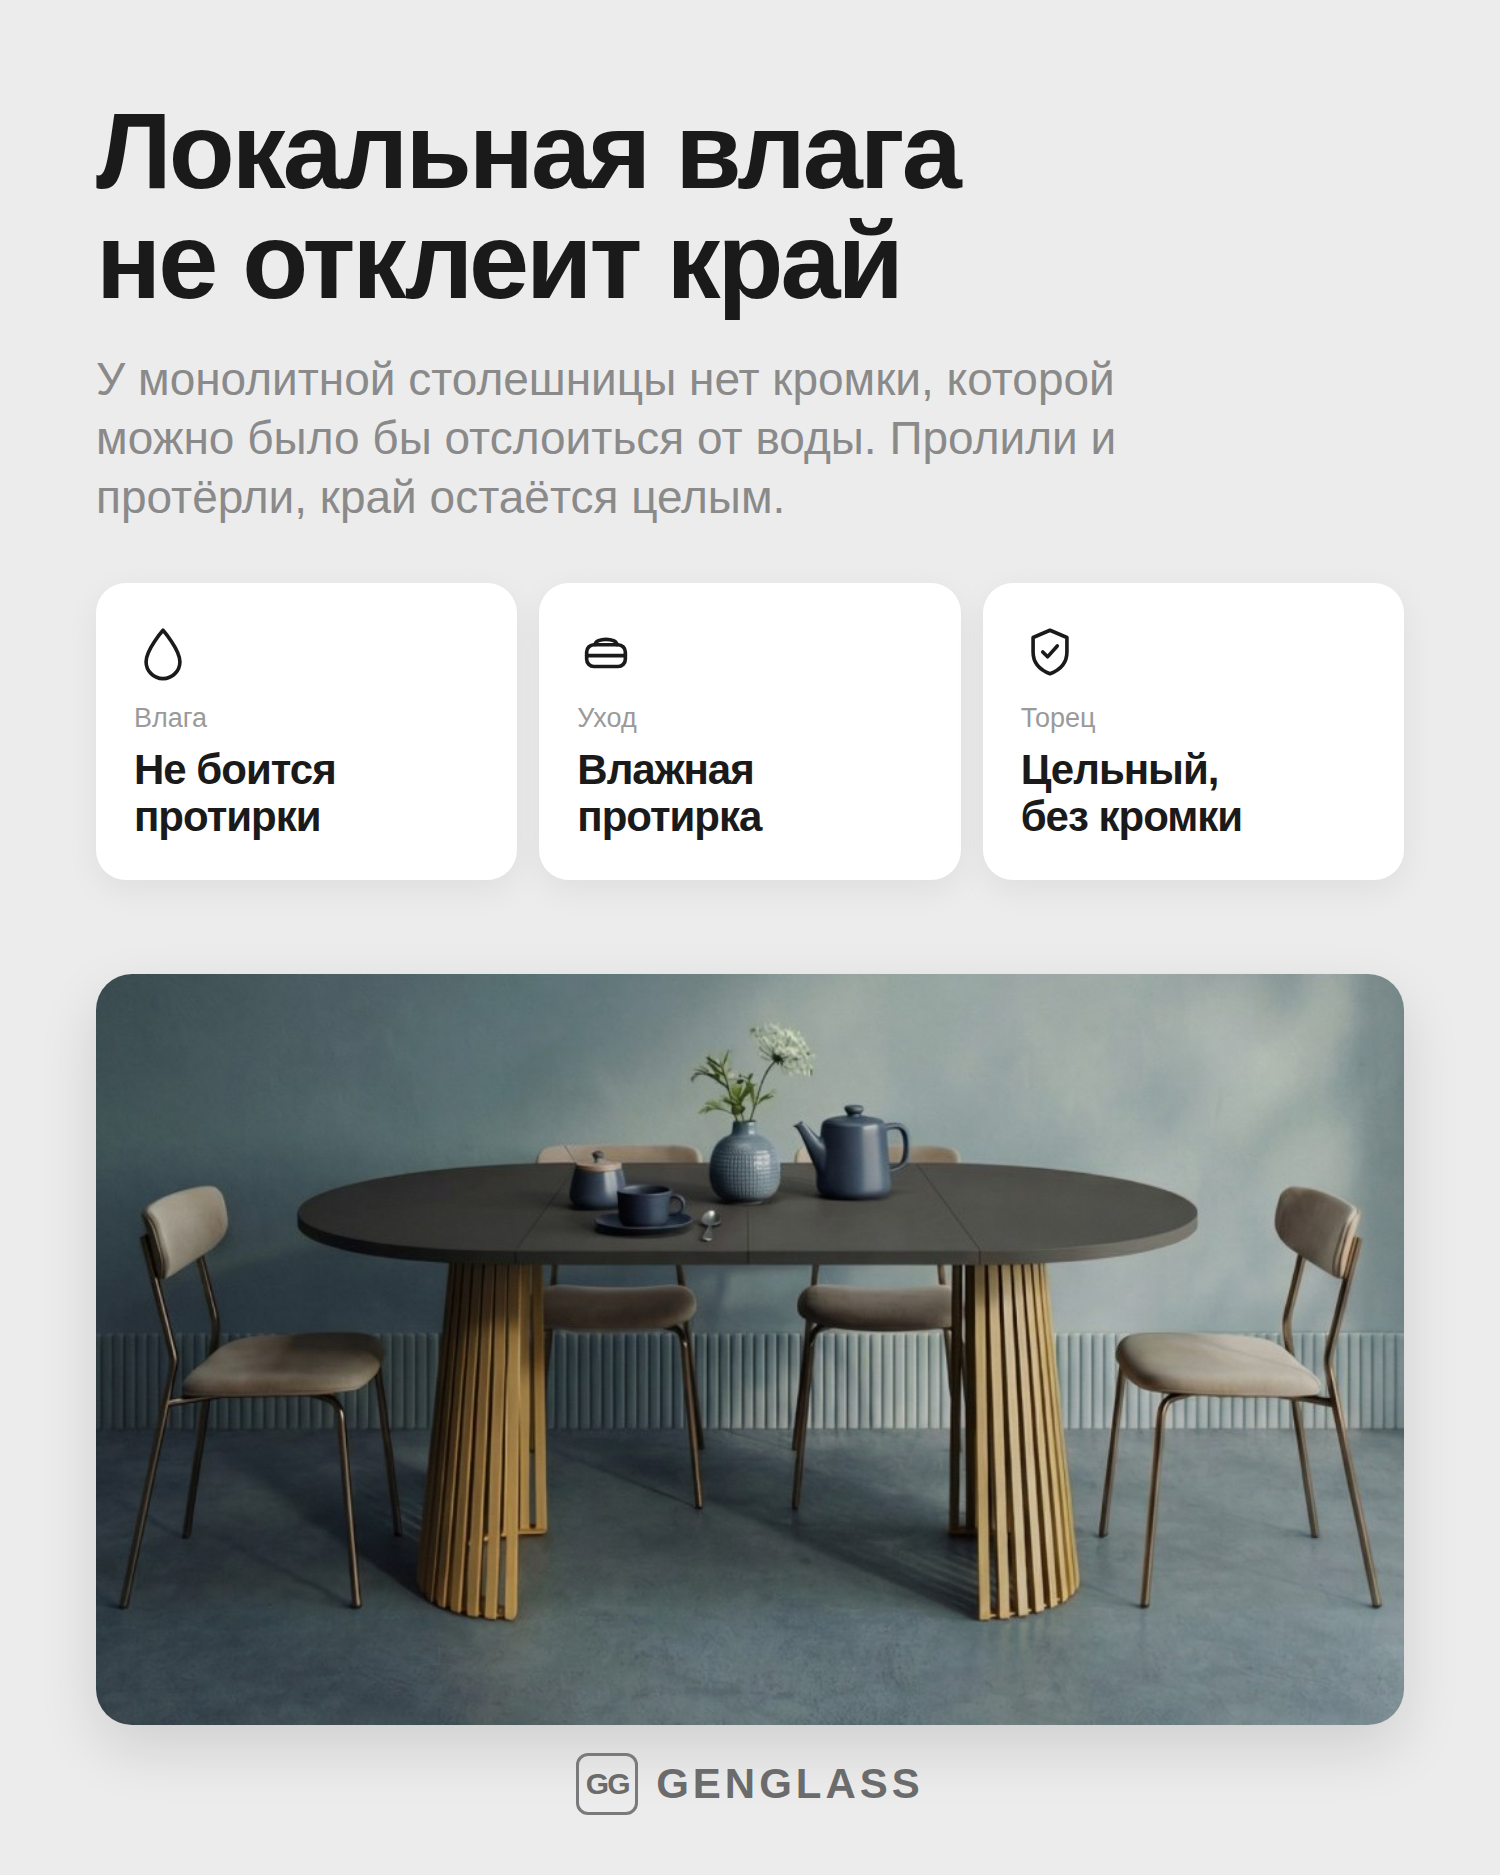
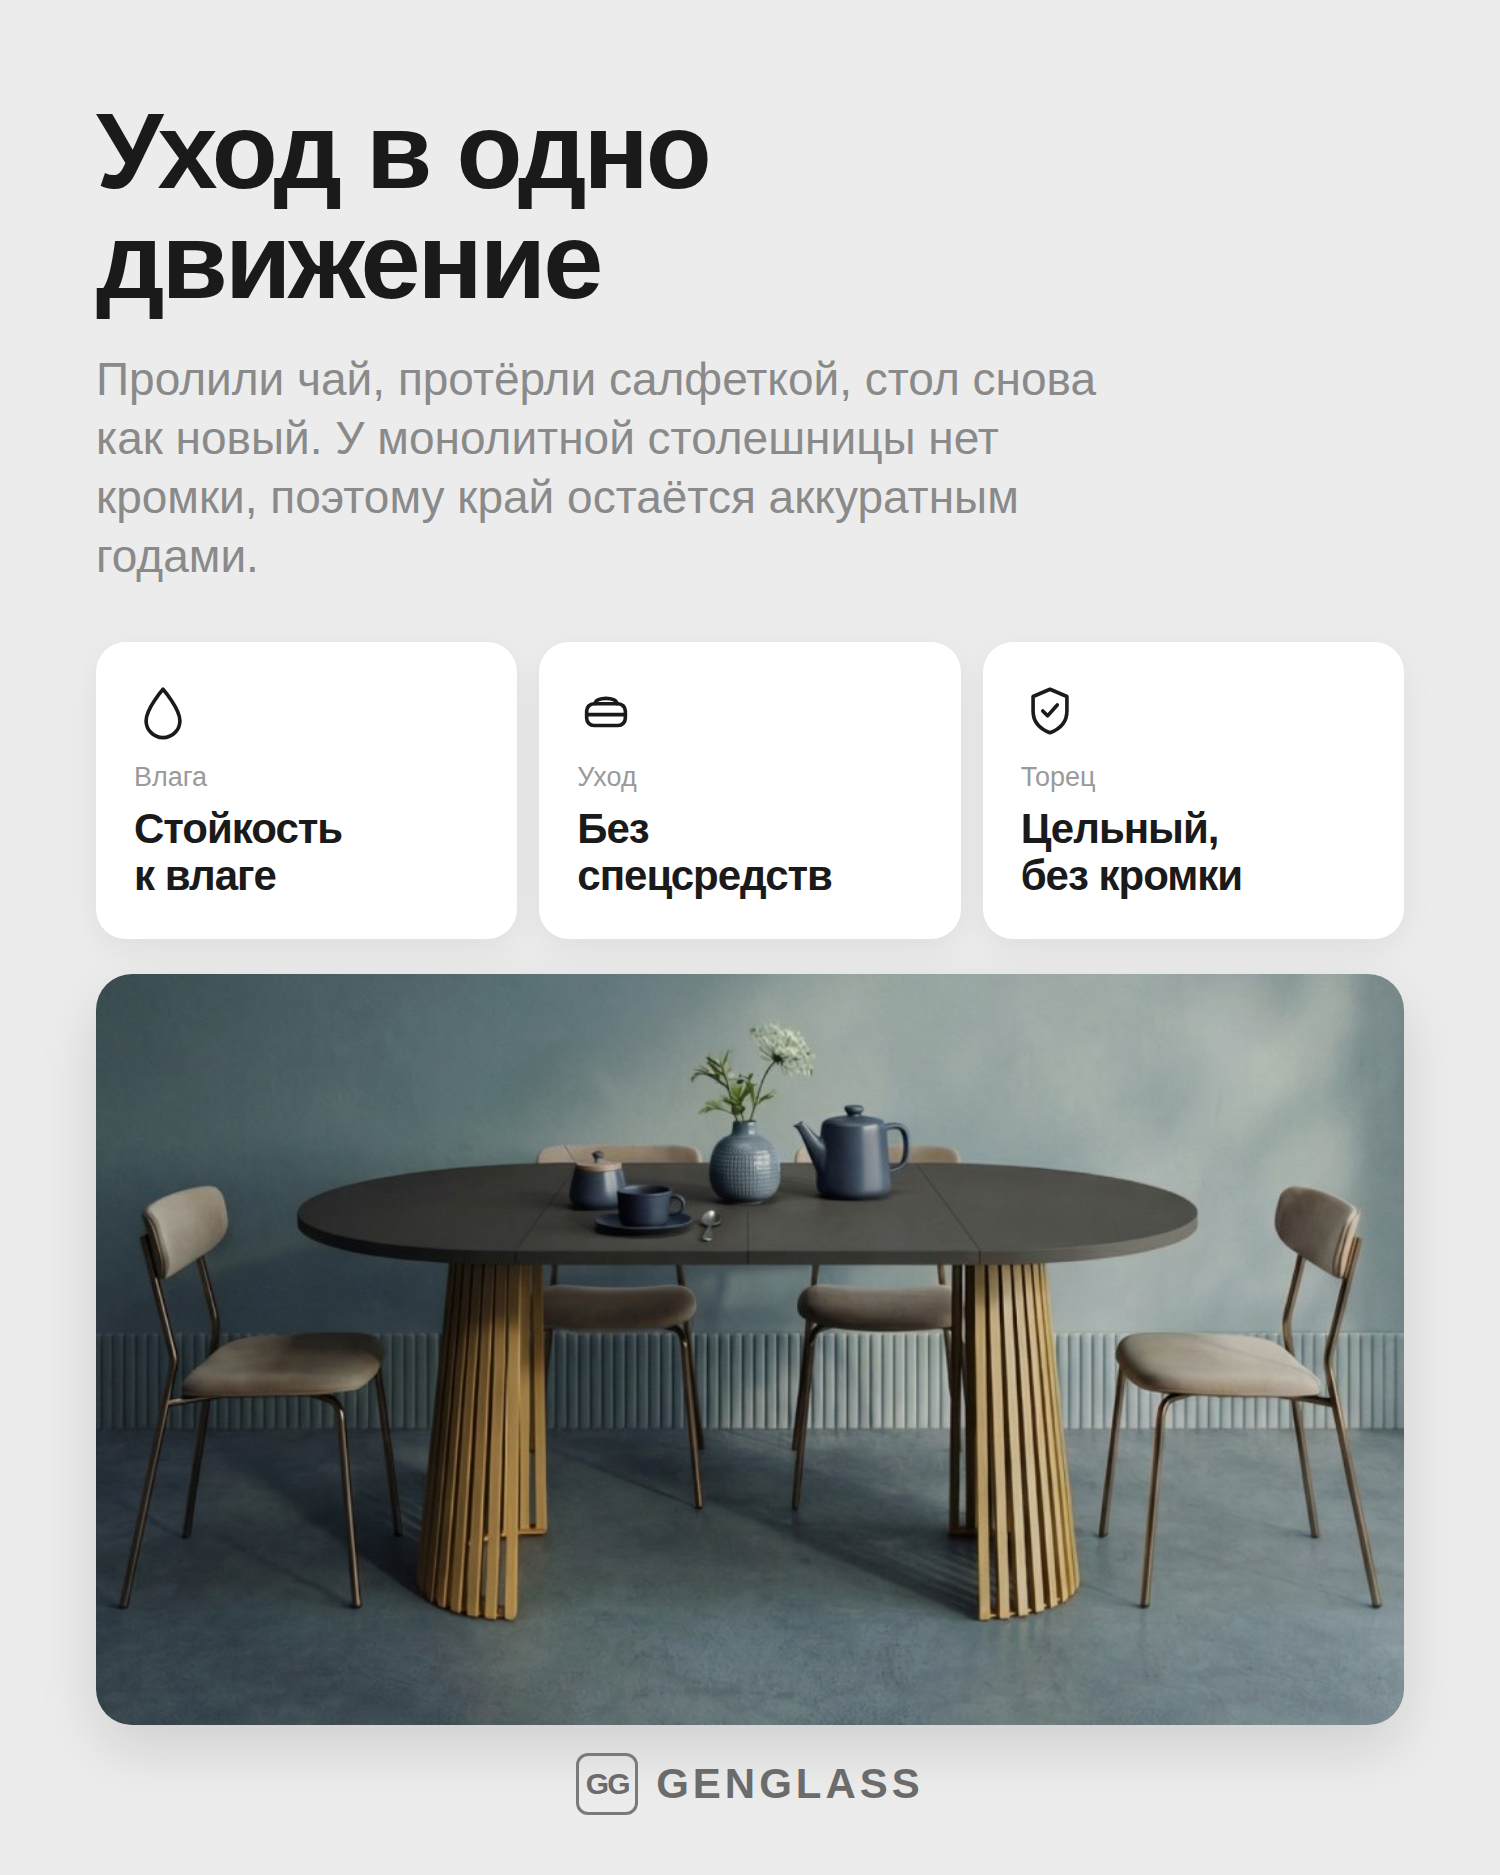
KONUX MDF cards: sensory competitor-style rework
Reworked both cards after competitor infographic examples, kept KONUX style:
- Card A: "Матовая столешница, которую хочется трогать" - tactile desire
  angle, smooth matte painted MDF (no wood texture), chips Поверхность/
  Торец/Тон + ЛДСП->МДФ upgrade block
- Card B: "Уход в одно движение" - everyday-life angle (spill/wipe story),
  benefit tiles Влага/Уход/Торец
- Moderate copy volume, zero dashes, no competitor mentions in copy

Claude-Session: https://claude.ai/code/session_0138UNtjXMgct5sLFrQvKXsM

diff --git a/konux-infographic/mockup-A.html b/konux-infographic/mockup-A.html
@@ -1,21 +1,21 @@
 <div class="card">
   <div class="content">
-    <h1 class="title">Столешница из<br>монолитного МДФ 25 мм</h1>
-    <p class="subtitle">Мы обновили стол: вместо ЛДСП с кромкой поставили плотную плиту МДФ.
-      Поверхность и торец единые, без наклеенной полосы по краю.</p>
+    <h1 class="title">Матовая столешница,<br>которую хочется трогать</h1>
+    <p class="subtitle">Гладкий окрашенный МДФ 25 мм без древесной текстуры. Ровный матовый
+      тон мягко рассеивает свет, а поверхность под ладонью ощущается шелковистой.</p>
 
     <div class="chips">
       <div class="chip">
-        <div class="chip-label">Толщина</div>
-        <div class="chip-value">25 мм</div>
+        <div class="chip-label">Поверхность</div>
+        <div class="chip-value">Гладкий мат</div>
       </div>
       <div class="chip">
         <div class="chip-label">Торец</div>
         <div class="chip-value">Без кромки</div>
       </div>
       <div class="chip">
-        <div class="chip-label">Класс эмиссии</div>
-        <div class="chip-value">E1</div>
+        <div class="chip-label">Тон</div>
+        <div class="chip-value">Единый с торцом</div>
       </div>
     </div>
 

diff --git a/konux-infographic/mockup-B.html b/konux-infographic/mockup-B.html
@@ -1,8 +1,8 @@
 <div class="card">
   <div class="content">
-    <h1 class="title">Локальная влага<br>не отклеит край</h1>
-    <p class="subtitle">У монолитной столешницы нет кромки, которой можно было бы отслоиться
-      от воды. Пролили и протёрли, край остаётся целым.</p>
+    <h1 class="title">Уход в одно<br>движение</h1>
+    <p class="subtitle">Пролили чай, протёрли салфеткой, стол снова как новый. У монолитной
+      столешницы нет кромки, поэтому край остаётся аккуратным годами.</p>
 
     <div class="features">
       <div class="feat">
@@ -12,7 +12,7 @@
           </svg>
         </div>
         <div class="feat-label">Влага</div>
-        <div class="feat-value">Не боится<br>протирки</div>
+        <div class="feat-value">Стойкость<br>к влаге</div>
       </div>
       <div class="feat">
         <div class="feat-icon">
@@ -23,7 +23,7 @@
           </svg>
         </div>
         <div class="feat-label">Уход</div>
-        <div class="feat-value">Влажная<br>протирка</div>
+        <div class="feat-value">Без<br>спецсредств</div>
       </div>
       <div class="feat">
         <div class="feat-icon">
